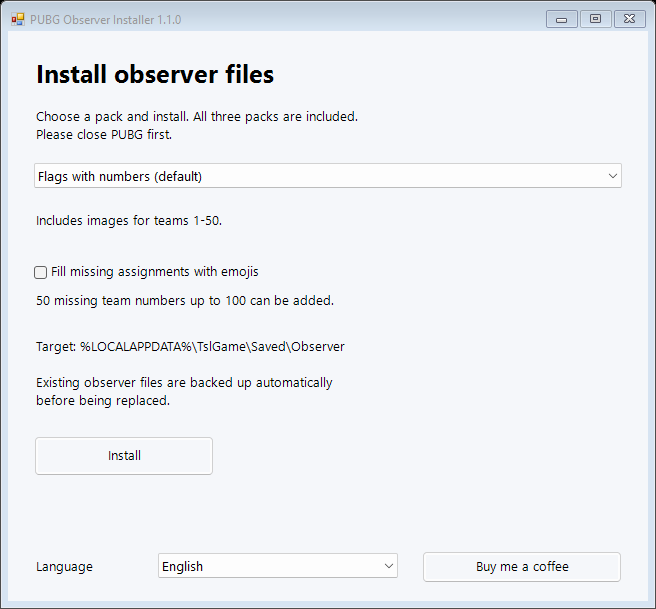
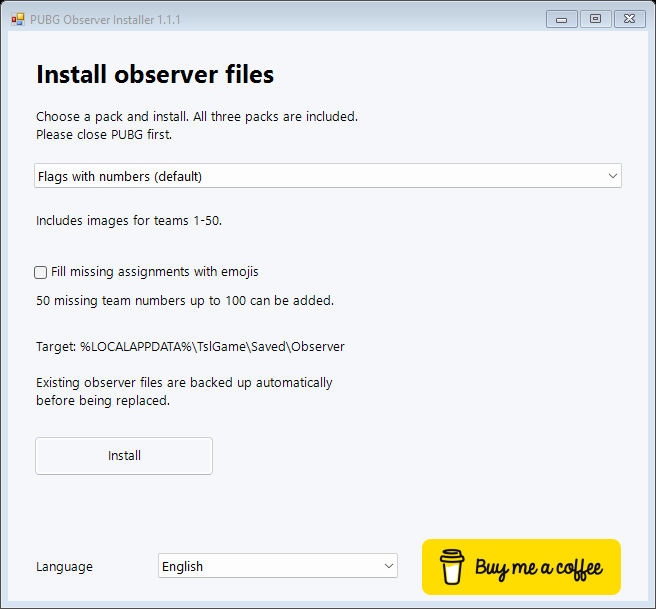
Use official Buy Me a Coffee branding and funding link

Changed region(s): [[0.6402, 0.8736, 0.9451, 0.9984]]

diff --git a/src/Installer.cs b/src/Installer.cs
@@ -8,8 +8,8 @@ using System.Windows.Forms;
 
 [assembly: AssemblyTitle("PUBG Observer Installer")]
 [assembly: AssemblyDescription("Installiert lokale Observer-Pakete fuer PUBG")]
-[assembly: AssemblyVersion("1.1.0.0")]
-[assembly: AssemblyFileVersion("1.1.0.0")]
+[assembly: AssemblyVersion("1.1.1.0")]
+[assembly: AssemblyFileVersion("1.1.1.0")]
 
 namespace PubgObserver
 {
@@ -123,7 +123,7 @@ namespace PubgObserver
 
         public MainForm()
         {
-            Text = "PUBG Observer Installer 1.1.0";
+            Text = "PUBG Observer Installer 1.1.1";
             ClientSize = new Size(640, 570);
             FormBorderStyle = FormBorderStyle.FixedSingle;
             MaximizeBox = false;
@@ -171,11 +171,15 @@ namespace PubgObserver
             var languages = new ComboBox { Name = "LanguageSelection", DropDownStyle = ComboBoxStyle.DropDownList, Location = new Point(150, 522), Size = new Size(240, 30) };
             languages.Items.AddRange(new[] { Language.Text("system"), "English", "Deutsch" });
             languages.SelectedIndex = 0;
-            var donate = new Button { Name = "Donate", Location = new Point(414, 520), Size = new Size(200, 32), Tag = "https://paypal.me/ErwerthFlorian" };
+            var donate = new Button { Name = "Donate", Location = new Point(414, 508), Size = new Size(200, 56), Tag = "https://buymeacoffee.com/forli69", FlatStyle = FlatStyle.Flat, BackgroundImageLayout = ImageLayout.Zoom, Cursor = Cursors.Hand, UseVisualStyleBackColor = false, BackColor = BackColor };
+            donate.FlatAppearance.BorderSize = 0;
+            using (var stream = Assembly.GetExecutingAssembly().GetManifestResourceStream("Brand.BuyMeACoffee.png"))
+            using (var graphic = Image.FromStream(stream)) donate.BackgroundImage = new Bitmap(graphic);
+            donate.Disposed += delegate { donate.BackgroundImage.Dispose(); };
             donate.Click += delegate
             {
                 try { Process.Start(new ProcessStartInfo((string)donate.Tag) { UseShellExecute = true }); }
-                catch (Exception) { MessageBox.Show(this, Language.Text("browserError"), "PayPal", MessageBoxButtons.OK, MessageBoxIcon.Information); }
+                catch (Exception) { MessageBox.Show(this, Language.Text("browserError"), "Buy Me a Coffee", MessageBoxButtons.OK, MessageBoxIcon.Information); }
             };
             Controls.AddRange(new Control[] { languageLabel, languages, donate });
             Action applyLanguage = delegate
@@ -192,7 +196,7 @@ namespace PubgObserver
                     target.Text = Language.Text("target");
                     install.Text = Language.Text("install");
                     languageLabel.Text = Language.Text("language");
-                    donate.Text = Language.Text("donate");
+                    donate.AccessibleName = Language.Text("donate");
                     languages.Items[0] = Language.Text("system");
                     packs.Items.Clear();
                     packs.Items.AddRange(Installer.PackNames);

diff --git a/src/Language.cs b/src/Language.cs
@@ -45,7 +45,7 @@ namespace PubgObserver
             {"language", new[] {"Language", "Sprache"}},
             {"system", new[] {"System language", "Systemsprache"}},
             {"donate", new[] {"Buy me a coffee", "Buy me a coffee"}},
-            {"browserError", new[] {"Could not open the browser. You can visit https://paypal.me/ErwerthFlorian manually.", "Der Browser konnte nicht geöffnet werden. Du kannst https://paypal.me/ErwerthFlorian manuell aufrufen."}},
+            {"browserError", new[] {"Could not open the browser. You can visit https://buymeacoffee.com/forli69 manually.", "Der Browser konnte nicht geöffnet werden. Du kannst https://buymeacoffee.com/forli69 manuell aufrufen."}},
             {"missingPack", new[] {"The selected pack is missing from this EXE.", "Das ausgewählte Paket fehlt in dieser EXE."}},
             {"badPath", new[] {"Invalid path in the pack.", "Ungültiger Pfad im Paket."}},
             {"linkedFolder", new[] {"Linked folders are not supported: ", "Verknüpfte Ordner werden nicht unterstützt: "}},

diff --git a/README.md b/README.md
@@ -53,7 +53,9 @@ Eigene CSV-Dateien muessen kommasepariert sein und eindeutige Teamnummern sowie 
 
 Der Installer startet mit der Windows-Anzeigesprache. Deutsch wird für deutsche Systeme verwendet, Englisch für englische und andere nicht unterstützte Systemsprachen. Über **Sprache / Language** kannst du jederzeit **Systemsprache**, **English** oder **Deutsch** auswählen. Deutsche Texte enthalten echte Umlaute. Die Paketauswahl und die Emoji-Option bleiben beim Sprachwechsel erhalten.
 
-Der Button **Buy me a coffee** öffnet [PayPal.me/ErwerthFlorian](https://paypal.me/ErwerthFlorian) im Standardbrowser. Eine Unterstützung ist freiwillig und für keine Funktion erforderlich.
+Der offizielle **Buy Me a Coffee**-Button öffnet [buymeacoffee.com/forli69](https://buymeacoffee.com/forli69) im Standardbrowser. Eine Unterstützung ist freiwillig und für keine Funktion erforderlich.
+
+<a href="https://buymeacoffee.com/forli69"><img src="assets/buy-me-a-coffee.png" alt="Buy me a coffee" width="200" /></a>
 
 ![English interface](docs/images/installer-en.png)
 

diff --git a/THIRD_PARTY_NOTICES.md b/THIRD_PARTY_NOTICES.md
@@ -1,5 +1,7 @@
 # Enthaltene Observer-Pakete
 
+Die offizielle Buy-Me-a-Coffee-Button-Grafik in `assets/buy-me-a-coffee.png` stammt unverändert vom [Buy-Me-a-Coffee-CDN](https://cdn.buymeacoffee.com/buttons/v2/default-yellow.png). Sie ist ein Markenasset eines Dritten und nicht von der MIT-Lizenz des Projekts erfasst; siehe [Brand Kit](https://buymeacoffee.com/brand).
+
 Die folgenden Pakete wurden vom Projektinhaber als lokale Downloads bereitgestellt. Die heruntergeladenen Bilder bleiben unveraendert. Seit Version 1.1.0 ersetzt das Paket "Flaggen ohne Nummern" das fruehere Nummern-Paket. Im neuen Paket wurden zwei CSV-Zeilen und geometrisch erzeugte Flaggen fuer Team 24 (Italien, ITA.png) und Team 25 (Niederlande, NED.png) ergaenzt. Das Erzeugungsskript liegt unter scripts/generate-extra-flags.ps1; fuer diese beiden neuen Projektgrafiken wird keine Fremdvorlage verwendet.
 
 | Paket | Urspruenglicher Ordner | Inhalt | Herkunft und Lizenz |

diff --git a/assets/README.md b/assets/README.md
@@ -1,0 +1,9 @@
+# Buy Me a Coffee button
+
+Original, unchanged button graphic from the official Buy Me a Coffee CDN:
+https://cdn.buymeacoffee.com/buttons/v2/default-yellow.png
+
+Brand resources: https://buymeacoffee.com/brand
+
+Downloaded 2026-09-11. Used to link to https://buymeacoffee.com/forli69.
+The graphic is a third-party brand asset and is not covered by this project's MIT license.
